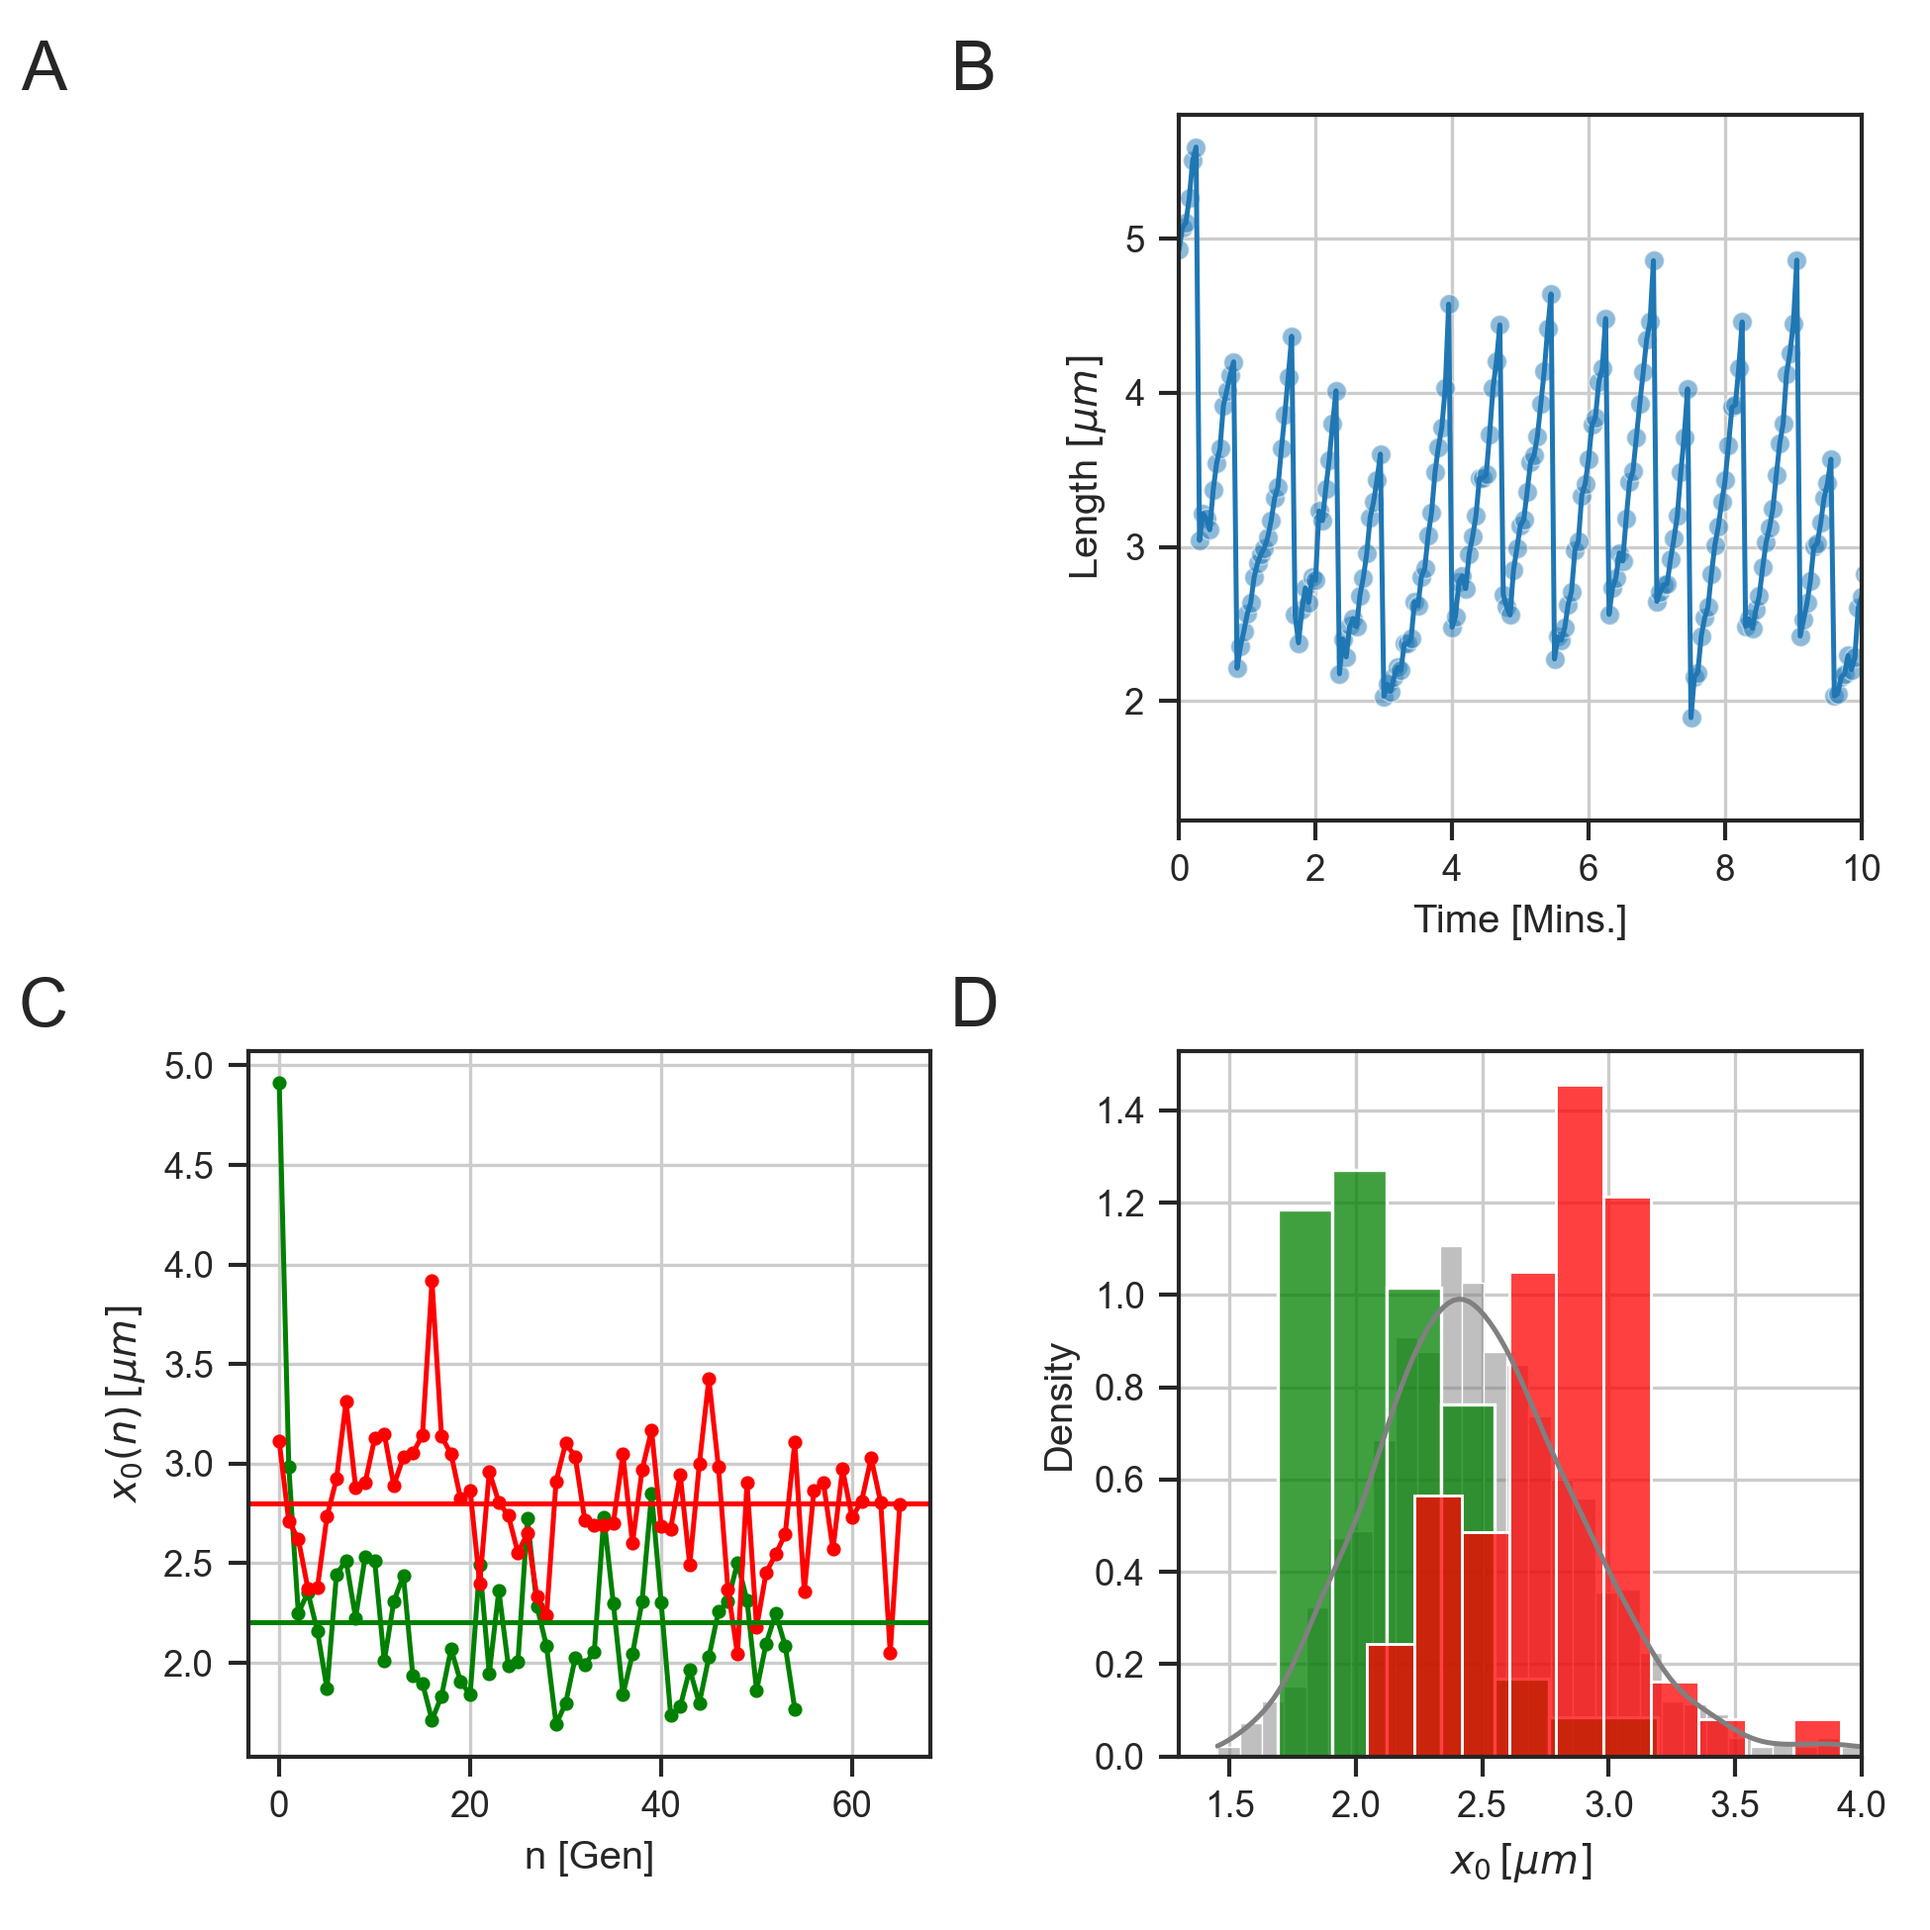
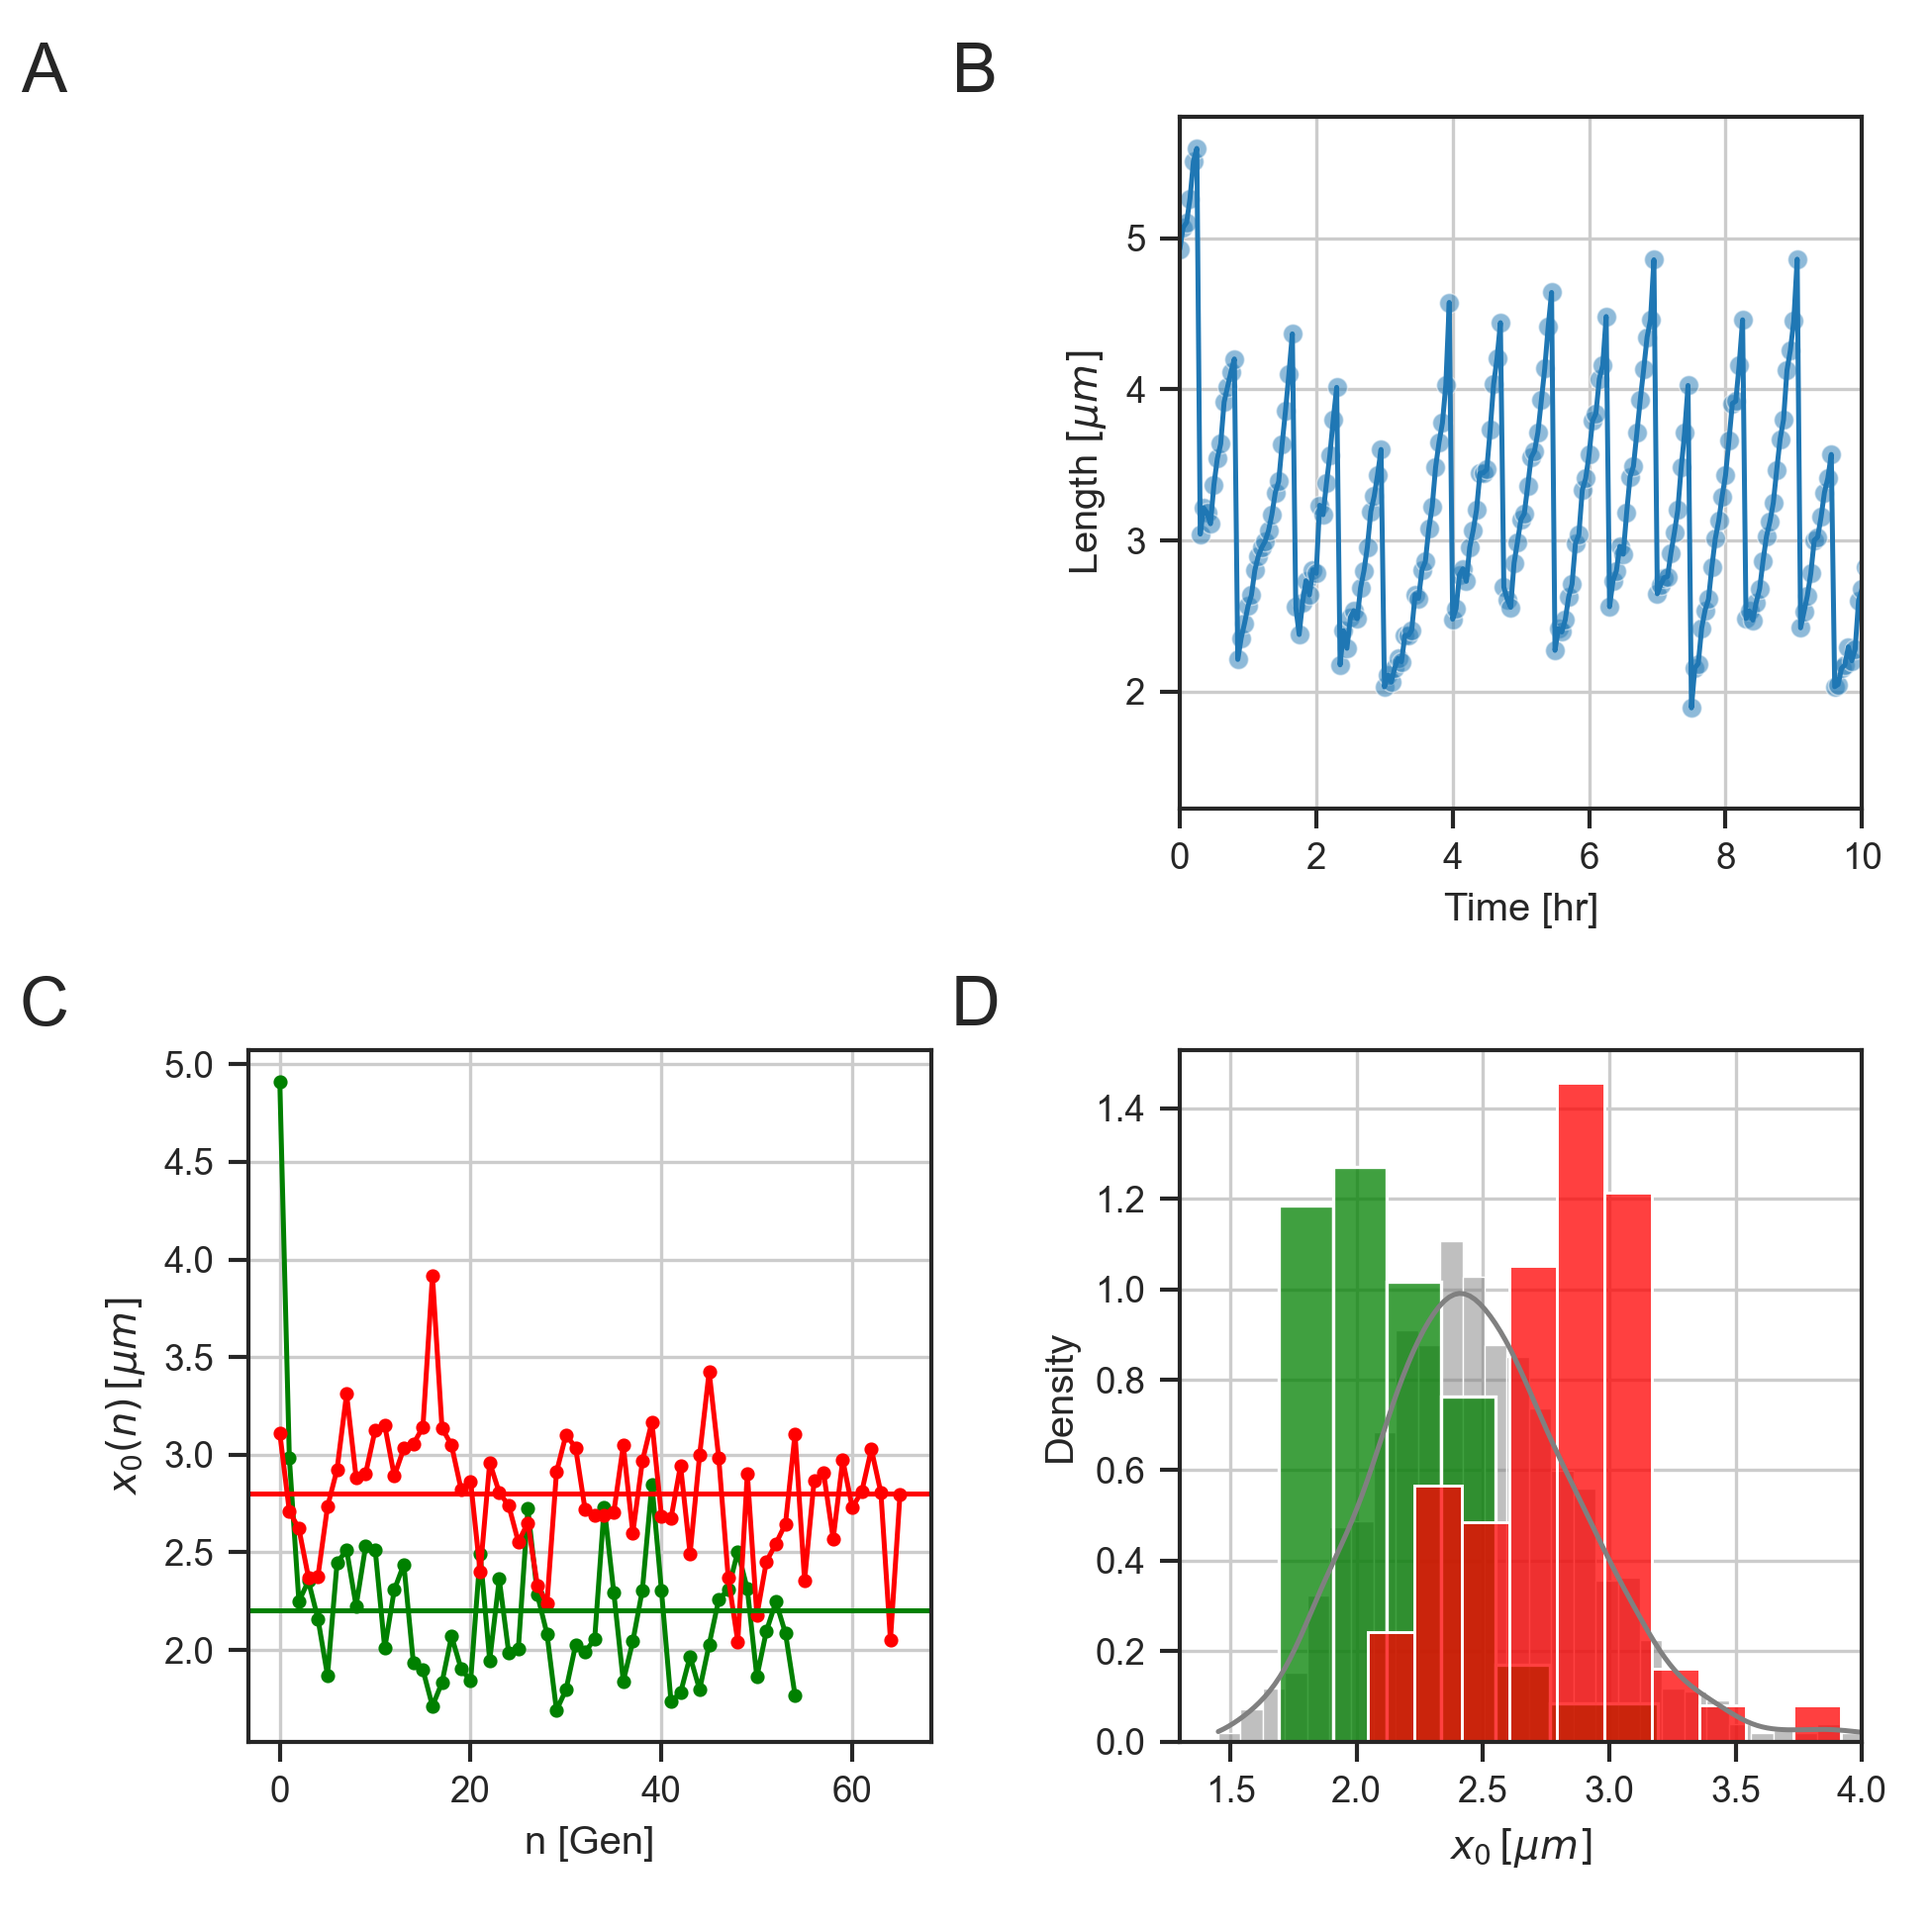
Finished updating the illustrations and mins to hr correction.

diff --git a/NewIntroductoryFigure/new_fig_1.py b/NewIntroductoryFigure/new_fig_1.py
@@ -127,7 +127,7 @@ def raw_data_plot(num, ax, **kwargs):
     sns.lineplot(data=rl, x='time', y='length', ax=ax, color=cmap[0])
     sns.scatterplot(data=rl, x='time', y='length', ax=ax, alpha=.5, color=cmap[0])
     # ax.plot(rl['time'], rl['length'], markerfacecolor=(1, 1, 0, 0.5))  # , marker='o', alpha=0.3)
-    ax.set_xlabel('Time [Mins.]')
+    ax.set_xlabel('Time [hr]')
     ax.set_ylabel(r'Length $[\mu m]$')
     ax.set_xlim([0, 10])
     # ax.plot()
